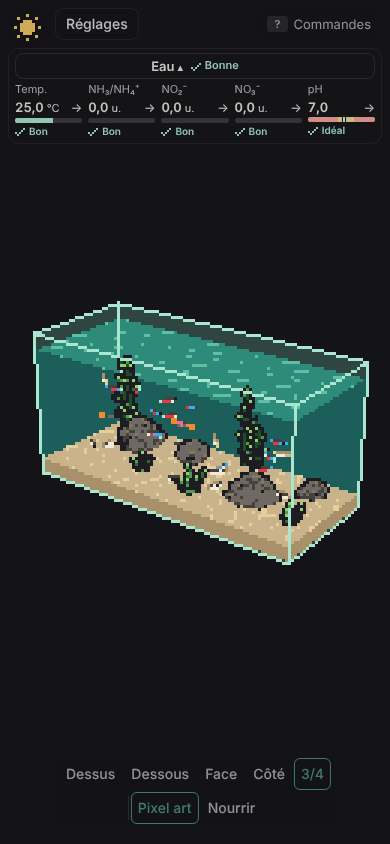
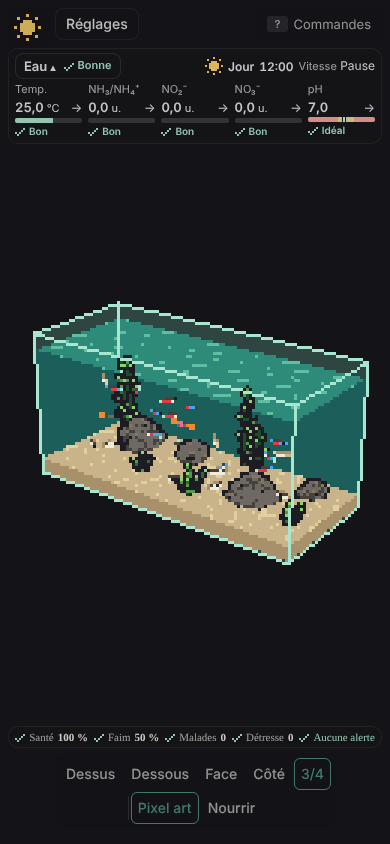
captures(c081): 5 angles

diff --git a/captures/latest/SOURCE.md b/captures/latest/SOURCE.md
@@ -1,7 +1,7 @@
-# Captures c080
+# Source des captures c081
 
-- Branche : cycle/c080-tableau-de-bord-jauges (PR #258)
-- Commit : 4bd74c2
-- Graine : 42 (défaut des captures)
-- Série : 83 images ; les captures sans interface sont identiques à l'octet à c079 ; modifiées : front-panneau, three-quarter-panneau-eau, telephone-eau, telephone-catalogue, telephone-fiche-espece ; nouvelles : 5 captures tableau-de-bord
-- Temps : 3,6 min
+- Branche : cycle PR #261 (tableau de bord 2/3)
+- Commit : a4ff1e3
+- Graine : celle du harnais de captures (par défaut)
+- Temps : 2026-10-27T02:43:17Z
+- Note : chromium de l environnement (1243) via config locale non commitée

diff --git a/captures/c081/SOURCE.md b/captures/c081/SOURCE.md
@@ -1,0 +1,7 @@
+# Source des captures c081
+
+- Branche : cycle PR #261 (tableau de bord 2/3)
+- Commit : a4ff1e3
+- Graine : celle du harnais de captures (par défaut)
+- Temps : 2026-10-27T02:43:17Z
+- Note : chromium de l environnement (1243) via config locale non commitée
